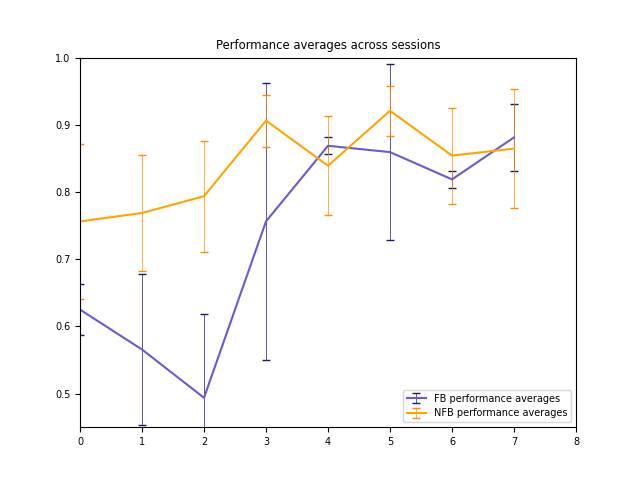
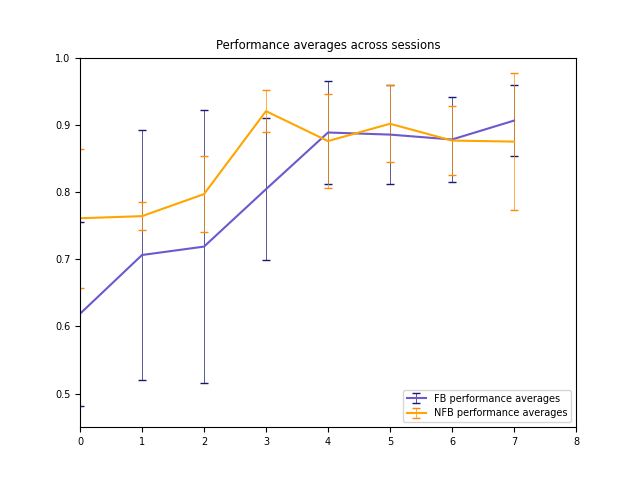
added some stuff

diff --git a/DataProcessing/participantClass.py b/DataProcessing/participantClass.py
@@ -14,6 +14,7 @@ class Participant:
 	_debug = True
 	_misgrasp_adj = 0.125
 	_fail_adj = 0.5
+	_timeout = 6000
 
 	### Methods and functions
 	
@@ -120,8 +121,8 @@ class Participant:
 		self.NL_Grasp_results = self.Grasp_results.loc[ :, self.Grasp_results.columns.str.startswith( 'NL' ) ]
 		self.NL_Grasp_results.columns = self.NL_Grasp_results.columns.str[3:]
   
-		self.COMB_Grasp_results = self.NL_Grasp_results[self.NL_Grasp_results.columns.drop(list(self.NL_Grasp_results.filter(regex='Egg')))] + self.CL_Grasp_results[self.CL_Grasp_results.columns.drop(list(self.CL_Grasp_results.filter(regex='Egg')))] / 2
-		
+		self.COMB_Grasp_results = pd.concat( [ self.NL_Grasp_results[self.NL_Grasp_results.columns.drop(list(self.NL_Grasp_results.filter(regex='Egg')))], self.CL_Grasp_results[self.CL_Grasp_results.columns.drop(list(self.CL_Grasp_results.filter(regex='Egg')))] ] )
+
 		for session in range( int( len( self.COMB_Grasp_results.columns ) / 3 ) ): # Combined performance averages across trial numbers and sessions (averaged between CL and NL cases, irrespective of eggs)
 			_mis_col = session*3
 			_tmp_df =  1 - ( self.COMB_Grasp_results.iloc[ :, _mis_col ] * self._misgrasp_adj + ( ( self.COMB_Grasp_results.iloc[ :, _mis_col + 1 ] + self.COMB_Grasp_results.iloc[:, _mis_col + 2 ] ) * self._fail_adj ) ) 
@@ -133,6 +134,7 @@ class Participant:
 			total_mean_calc = pd.DataFrame( _tmp_df[_col_title].mean(axis=0, skipna=True, numeric_only=True), index=["Mean"], columns=[_col_title] )
 			_tmp_df = pd.concat( [ _tmp_df, total_mean_calc ], axis=0 )
 			self.COMB_grasp_metrics = pd.concat( [ self.COMB_grasp_metrics, _tmp_df ], axis=1 )
+	
   
 		for session in range( int( len( self.CL_Grasp_results.columns ) / 4 ) ): # Extracts and processes grasp results for Cognitive loading condition
 			
@@ -147,6 +149,8 @@ class Participant:
 			total_mean_calc = pd.DataFrame( _tmp_df[_col_title].mean(axis=0, skipna=True, numeric_only=True), index=["Mean"], columns=[_col_title] )
 			light_mean_calc = pd.DataFrame( _tmp_df[_tmp_df.iloc[:,0]=="L"][_col_title].mean(), index=["Mean_L"], columns=[_col_title] )
 			heavy_mean_calc = pd.DataFrame( _tmp_df[_tmp_df.iloc[:,0]=="H"][_col_title].mean(), index=["Mean_H"], columns=[_col_title] )
+			# total_num_crush = pd.DataFrame( )
+			# light_num_crush = 
 			_tmp_df = pd.concat( [ _tmp_df, total_mean_calc, light_mean_calc, heavy_mean_calc ], axis=0 )
 			self.CL_grasp_metrics = pd.concat( [ self.CL_grasp_metrics, _tmp_df ], axis=1 )
 
@@ -169,25 +173,69 @@ class Participant:
 		if self._debug: print( "\tGrasp metrics analysed successfully" )
   
 	def load_trial_times( self ):
+		
+		cols = ['S1','S2','S3','S4','S5','S6','S7','S8']
+		self.CL_contact_forces = pd.DataFrame(index=[1,2,3,4,5,6,7,8,9,10], columns=['S1E','S1','S2E','S2','S3E','S3','S4E','S4','S5E','S5','S6E','S6','S7E','S7','S8E','S8'])
+		self.NL_contact_forces = pd.DataFrame(index=[1,2,3,4,5,6,7,8,9,10], columns=['S1E','S1','S2E','S2','S3E','S3','S4E','S4','S5E','S5','S6E','S6','S7E','S7','S8E','S8'])
+		self.CL_contact_times = pd.DataFrame(index=[1,2,3,4,5,6,7,8,9,10], columns=['S1E','S1','S2E','S2','S3E','S3','S4E','S4','S5E','S5','S6E','S6','S7E','S7','S8E','S8'])
+		self.NL_contact_times = pd.DataFrame(index=[1,2,3,4,5,6,7,8,9,10], columns=['S1E','S1','S2E','S2','S3E','S3','S4E','S4','S5E','S5','S6E','S6','S7E','S7','S8E','S8'])
+		self.CL_times_avg= pd.DataFrame( index=['L','H','COMB'], columns=cols)
+		self.NL_times_avg= pd.DataFrame( index=['L','H','COMB'], columns=cols)
+		
 
 		for session in self.session_result_dirs:
-			session_dir = os.path.join( self.resultsFolder, session )
-
+			session_dir = os.path.join( self.resultsFolder, session )  # Directory path for session (1-8)
+			self.CL_contact_forces.loc['avg', 'S'+str(session)] = 0
+			self.NL_contact_forces.loc['avg', 'S'+str(session)] = 0
 			for condition in os.listdir(session_dir):
+
 				if os.path.isdir( os.path.join( session_dir, condition ) ):
-					session_loading_dir = os.path.join( session_dir, condition )
+        
+					session_loading_dir = os.path.join( session_dir, condition ) # Directory path for session (1-8) condition (CL/NL)
+
 					for trial in os.listdir( session_loading_dir ):
-						if not trial == 'Missed':
-							trial_file = os.path.join( session_loading_dir, trial )
+							
+						if not trial.startswith('Miss'):
+							
+							i = int( trial.split( '-', 1 )[0] ) # Indexing value to make sure trial results end up in the correct location in the DataFrame
+							egg = trial.split( '-', 1 )[1][:1] # Trial Egg value
+							trial_file = os.path.join( session_loading_dir, trial ) # Filepath for session (1-8) condition (CL/NL) trial (1-10) pressure information
+       
 							try:
 								_tmp_df = pd.read_csv( trial_file )
-								print(_tmp_df)
-								_tmp_df = _tmp_df.loc[:,_tmp_df.any()]
-								print(_tmp_df.mean())
+								if condition == 'CL':
+
+									self.CL_contact_forces.loc[i, 'S'+str(session)] = _tmp_df.loc[:,_tmp_df.any()].mean().values
+									self.CL_contact_forces.loc[i, 'S'+str(session)+'E'] = egg
+
+									self.CL_contact_times.loc[i, 'S'+str(session)] = len(self.CL_contact_forces.loc[i, 'S'+str(session)])
+									self.CL_contact_times.loc[i, 'S'+str(session)+'E'] = egg
+          
+								elif condition == 'NL':
+            
+									self.NL_contact_forces.loc[i, 'S'+str(session)] = _tmp_df.loc[:,_tmp_df.any()].mean().values
+									self.NL_contact_forces.loc[i, 'S'+str(session)+'E'] = egg
+
+									self.NL_contact_times.loc[i, 'S'+str(session)] = len(self.NL_contact_forces.loc[i, 'S'+str(session)])
+									self.NL_contact_times.loc[i, 'S'+str(session)+'E'] = egg
+							
 							except:
-								print('Empty grasp file: {}{}{}'.format(self.ID, condition, trial))
+								print('\t\tException raised: Empty grasp file preloop - P{}-S{}-{}-{}'.format(self.ID, session, condition, trial))
+		
+		self.CL_contact_times = self.CL_contact_times.apply( lambda x: [np.NaN if str(y).isnumeric() and y > self._timeout else y for y in x ] ).replace( 0, np.NaN )
+		self.NL_contact_times = self.NL_contact_times.apply( lambda x: [np.NaN if str(y).isnumeric() and y > self._timeout else y for y in x ] ).replace( 0, np.NaN )
 
 
+  
+		for col in cols:
+			egg_iloc = self.CL_contact_times.columns.get_loc(col) - 1
+			self.CL_times_avg.loc['COMB', col] = self.CL_contact_times[col].mean( axis=0)#, numeric_only=True )
+			self.CL_times_avg.loc['L', col] = self.CL_contact_times[self.CL_contact_times.iloc[:,egg_iloc]=='L'][col].mean( axis=0)#, numeric_only=True )
+			self.CL_times_avg.loc['H', col] = self.CL_contact_times[self.CL_contact_times.iloc[:,egg_iloc]=='H'][col].mean( axis=0)#, numeric_only=True )
+
+			self.NL_times_avg.loc['COMB', col] = self.NL_contact_times[col].mean( axis=0)#, numeric_only=True )
+			self.NL_times_avg.loc['L', col] = self.NL_contact_times[self.NL_contact_times.iloc[:,egg_iloc]=='L'][col].mean( axis=0)#, numeric_only=True )
+			self.NL_times_avg.loc['H', col] = self.NL_contact_times[self.NL_contact_times.iloc[:,egg_iloc]=='H'][col].mean( axis=0)#, numeric_only=True )
 
 	def plot_performance( self ):
 		""""""
@@ -198,7 +246,27 @@ class Participant:
 			ax.set(xlim=(1, 8), xticks=np.arange(1, 8), ylim=(0, 1))
 			plt.show()
 
+	def combine_performance_and_time( self ):
+		
+		if not self.ID.endswith('OPP'):
+			col_rename = {"Performance1":"S1",  "Performance2":"S2",   "Performance3":"S3",   "Performance4":"S4",   "Performance5":"S5",   "Performance6":"S6",   "Performance7":"S7",   "Performance8":"S8"}
 
+			self.CL_timing_metrics = self.CL_contact_times[self.CL_contact_times.columns.drop(list(self.CL_contact_times.filter(regex='E')))]
+			self.CL_timing_metrics = 1 - self.CL_timing_metrics.apply( lambda x: [(y-1)/(1500-100)  for y in x ] )
+			self.CL_timing_metrics = self.CL_timing_metrics.apply( lambda x: [0 if y < 0 else y for y in x])
+
+	
+			self.NL_timing_metrics = 1 - self.NL_contact_times[self.NL_contact_times.columns.drop(list(self.NL_contact_times.filter(regex='E')))].div(1000)
+			self.NL_timing_metrics = self.NL_timing_metrics.apply( lambda x: [(y-1)/(1500-100) for y in x ] )
+			self.NL_timing_metrics = self.NL_timing_metrics.apply( lambda x: [0 if y < 0 else y for y in x] )
+
+			self.CL_combined_performance = self.CL_timing_metrics * self.CL_grasp_metrics[self.CL_grasp_metrics.columns.drop(list(self.CL_grasp_metrics.filter(regex='Egg')))].rename(columns=col_rename)
+				
+			self.CL_combined_performance.drop([ 'Mean_H', 'Mean_L' ], inplace=True )
+			self.CL_combined_performance.loc['Mean'] = self.CL_combined_performance.mean()
+			self.CL_combined_performance.loc['STD'] = self.CL_combined_performance.iloc[0:9,:].std()
+			print(self.CL_combined_performance.iloc[0:10,:])
+			print(self.CL_combined_performance)
 
 
 
@@ -349,11 +417,11 @@ def calculate_all_qualitative_means( participant_list ):
 	return 	Qresults_CL_FB,	Qresults_CL_FB_avg, Qresults_NL_FB, Qresults_NL_FB_avg,	Qresults_CL_NFB, Qresults_CL_NFB_avg, Qresults_NL_NFB, Qresults_NL_NFB_avg
 
 def plot_overall_performance_means( show = False, save = False ):
-	plt.errorbar( range( len( FB_NL_means.index ) ), ( FB_NL_means["Mean"] + FB_CL_means["Mean"] )/2, yerr= FB_NL_means.std( axis=1 ).values, fmt='slateblue', label='FB performance averages', ecolor='midnightblue', elinewidth=.5, capsize=3 )
+	plt.errorbar( range( len( FB_COMB_means.index ) ), FB_COMB_means["Mean"], yerr= FB_COMB_means.std( axis=1 ).values, fmt='slateblue', label='FB performance averages', ecolor='midnightblue', elinewidth=.5, capsize=3 )
 	# plt.errorbar( range( len( FB_NL_means.index ) ), FB_NL_means["Mean"], yerr= FB_NL_means.std( axis=1 ).values, fmt='slateblue', label='FB No loading performance averages', ecolor='midnightblue', elinewidth=.5, capsize=3 )
 	# plt.errorbar( range( len( FB_CL_means.index ) ), FB_CL_means["Mean"], yerr= FB_CL_means.std( axis=1 ).values, fmt='violet', linestyle='--', linewidth=.5, label='FB No loading performance averages', ecolor='purple', elinewidth=.25, capsize=1 )
 	# plt.errorbar( range( len( FB_COMB_means.index ) ), ( FB_COMB_means["Mean"] ), yerr= FB_COMB_means.std( axis=1 ).values, fmt='green', label='FB COMB performance averages', ecolor='midnightblue', elinewidth=.5, capsize=3 )
-	plt.errorbar( range( len( NFB_NL_means.index ) ), ( NFB_NL_means["Mean"] + NFB_CL_means["Mean"] )/2, yerr= NFB_NL_means.std( axis=1 ).values, fmt='orange', label='NFB performance averages',  ecolor='darkorange', elinewidth=.5, capsize=3 )
+	plt.errorbar( range( len( NFB_COMB_means.index ) ), NFB_COMB_means["Mean"], yerr= NFB_COMB_means.std( axis=1 ).values, fmt='orange', label='NFB performance averages',  ecolor='darkorange', elinewidth=.5, capsize=3 )
 	# plt.errorbar( range( len( NFB_NL_means.index ) ), NFB_NL_means["Mean"], yerr= NFB_NL_means.std( axis=1 ).values, fmt='orange', label='NFB No loading performance averages',  ecolor='darkorange', elinewidth=.5, capsize=3 )
 	# plt.errorbar( range( len( NFB_CL_means.index ) ), NFB_CL_means["Mean"], yerr= NFB_CL_means.std( axis=1 ).values, fmt='orangered', linestyle='--', linewidth=.5, label='NFB No loading performance averages',  ecolor='darkred', elinewidth=.25, capsize=1 )
 	# plt.errorbar( range( len( NFB_COMB_means.index ) ), ( NFB_COMB_means["Mean"] ), yerr= NFB_COMB_means.std( axis=1 ).values, fmt='pink', label='NFB COMB performance averages',  ecolor='darkorange', elinewidth=.5, capsize=3 )
@@ -363,6 +431,10 @@ def plot_overall_performance_means( show = False, save = False ):
 	plt.title('Performance averages across sessions')
 	if save: plt.savefig( os.path.join( os.getcwd(), os.path.join("Output_figs", "Performance" ) ) )
 	if show: plt.show()
+ 
+
+	plt.clf()
+	plt.close()
 
 def plot_TLX_scores( condition, show = False, save = False ):
 	fig, ( ( ax1, ax2, ax3 ), ( ax4, ax5, ax6 ) ) = plt.subplots( 2, 3 )
@@ -415,21 +487,24 @@ def plot_TLX_scores( condition, show = False, save = False ):
 	plt.legend( loc='upper right' )
 	if save: plt.savefig( os.path.join( os.getcwd(), os.path.join("Output_figs", "Combined {} TLX".format(condition) ) ) )
 	if show: plt.show()
+ 
+	plt.clf()
+	plt.close()
 
 def plot_qual_scores( condition, show = False, save = False ):
 	fig, ( ( ax1, ax2, ax3 ), ( ax4, ax5, ax6 ), ( ax7, ax8, ax9 ) ) = plt.subplots( 3, 3 )
  
 	if condition == 'CL':
-		fig.suptitle('Comparison of Likert scores under cognitive load')
+		fig.suptitle('Comparison of Likert scores under high cognitive load')
 		qual_results_FB = Qresults_CL_FB_avg
 		qual_results_NFB = Qresults_CL_NFB_avg
-		app = 'under cognitive loading'
+		app = 'under high cognitive load'
   
 	elif condition == 'NL':
-		fig.suptitle('Comparison of Likert scores without cognitive load')
+		fig.suptitle('Comparison of Likert scores under low cognitive load')
 		qual_results_FB = Qresults_NL_FB_avg
 		qual_results_NFB = Qresults_NL_NFB_avg
-		app = 'without cognitive loading'
+		app = 'under low cognitive load'
   
 	else:
 		print('No valid condition set, defaulting to without loading.')
@@ -460,16 +535,123 @@ def plot_qual_scores( condition, show = False, save = False ):
 	fig.set_size_inches(20,12)
 	if save: plt.savefig( os.path.join( os.getcwd(), os.path.join("Output_figs", "{} Qualitative".format(condition) ) ) )
 	if show: plt.show()
+   
+def plot_ADL_scores( participant_list, show = False, save = False ):
 	
-	# fig, ax = plt.subplots()
-	# ax.plot( qual_results_FB.index.values, _qual_FB['Totals'].values , label='FB' )
-	# ax.plot( qual_results_NFB.index.values, _qual_NFB['Totals'].values, label='NFB' )
-	# ax.set_title('Combined Likert scores {}'.format(app))
-	# plt.legend( loc='upper right' )
-	# if save: plt.savefig( os.path.join( os.getcwd(), "Combined {} Qualitative".format(condition) ) )
-	# if show: plt.show()
+	FB_ADL = pd.DataFrame()
+	NFB_ADL = pd.DataFrame()
+	ADL_FB_averages = pd.DataFrame( index=['Cups','Pegs','Pens'], columns=[ 'S1', 'S4', 'S8' ])
+	ADL_NFB_averages = pd.DataFrame( index=['Cups','Pegs','Pens'], columns=[ 'S1', 'S4', 'S8' ])
+	
+	for participant in participant_list:
+		if participant is not None and participant.ID in condition_mask:
+			FB_ADL = FB_ADL.join( participant.ADL_ratios, how='outer', rsuffix=( "-" + str(participant.ID) ) )
+		elif participant is not None and participant.ID not in condition_mask:
+			NFB_ADL = NFB_ADL.join( participant.ADL_ratios, how='outer', rsuffix=( '-' + str(participant.ID ) ) )
    
+	for session in ADL_NFB_averages.columns:
+		ADL_FB_averages[session] = FB_ADL.loc[:,FB_ADL.columns.str.startswith(session)].mean(axis=1)
+		ADL_NFB_averages[session] = NFB_ADL.loc[:,NFB_ADL.columns.str.startswith(session)].mean(axis=1)
+
+	fig, (( ax1, ax4), (ax2, ax5), (ax3,ax6) ) = plt.subplots(3,2,sharex=True, sharey=True)
+
+	axes = [ ax1, ax2, ax3, ax4, ax5, ax6]	
+	
+	for axis in axes:
+	# for test in ADL_NFB_averages.index:
+		NFB_flag = False
+		test_loc = axes.index(axis)
+		if test_loc > 2:
+			NFB_flag = True
+			test_loc -=3
+		test = ADL_FB_averages.index[test_loc]
+		
+		if NFB_flag: 
+			axis.boxplot( [ FB_ADL.loc[test, FB_ADL.columns.str.startswith('S1')].dropna(), FB_ADL.loc[test, FB_ADL.columns.str.startswith('S4')].dropna(), FB_ADL.loc[test, FB_ADL.columns.str.startswith('S8')].dropna() ], widths=.6 )
+			axis.set_title(str(test) + ' FB')
+			FB_fit = np.polyfit([1,2,3],[FB_ADL.loc[test, FB_ADL.columns.str.startswith('S1')].dropna().mean(), FB_ADL.loc[test, FB_ADL.columns.str.startswith('S4')].dropna().mean(), FB_ADL.loc[test, FB_ADL.columns.str.startswith('S8')].dropna().mean()], 2)
+			FB_fit_func = np.poly1d(FB_fit)
+			axis.plot(np.arange(1,3,0.1),FB_fit_func(np.arange(1,3,0.1)))
+		else: 
+			axis.boxplot( [ NFB_ADL.loc[test, NFB_ADL.columns.str.startswith('S1')].dropna(), NFB_ADL.loc[test, NFB_ADL.columns.str.startswith('S4')].dropna(), NFB_ADL.loc[test, NFB_ADL.columns.str.startswith('S8')].dropna() ], widths=.6 )#, FB_ADL.loc[test,FB_ADL.columns.str.startswith('S4')].values, FB_ADL.loc[test,FB_ADL.columns.str.startswith('S8')].values ]   )
+			axis.set_title(str(test) + ' NFB')
+			NFB_fit = np.polyfit([1,2,3],[NFB_ADL.loc[test, NFB_ADL.columns.str.startswith('S1')].dropna().mean(), NFB_ADL.loc[test, NFB_ADL.columns.str.startswith('S4')].dropna().mean(), NFB_ADL.loc[test, NFB_ADL.columns.str.startswith('S8')].dropna().mean()], 2)
+			NFB_fit_func = np.poly1d(NFB_fit)
+			axis.plot(np.arange(1,3,0.1),NFB_fit_func(np.arange(1,3,0.1)))
    
+		axis.set_yticks( np.arange(0,12,1), minor=True )
+		axis.grid()
+   
+
+	
+	# fig.legend()
+	fig.set_size_inches(10,8)
+	fig.suptitle('Comparison of ADL metrics between conditions')
+	if save: plt.savefig( os.path.join( os.getcwd(), os.path.join("Output_figs", "ADL metric scores" ) ) )
+	if show: plt.show()
+ 
+	plt.clf()
+	plt.close()
+		
+def plot_times( participant_list, save=False, show = False ):
+	
+	i = 0
+	j = 0
+	
+	FB_CL_collated_times = pd.DataFrame(index=['L','H','COMB'], columns=['S1','S2','S3','S4','S5','S6','S7','S8']).fillna(0)
+	FB_NL_collated_times = pd.DataFrame(index=['L','H','COMB'], columns=['S1','S2','S3','S4','S5','S6','S7','S8']).fillna(0)
+	NFB_CL_collated_times = pd.DataFrame(index=['L','H','COMB'], columns=['S1','S2','S3','S4','S5','S6','S7','S8']).fillna(0)
+	NFB_NL_collated_times = pd.DataFrame(index=['L','H','COMB'], columns=['S1','S2','S3','S4','S5','S6','S7','S8']).fillna(0)
+
+	for participant in participant_list:
+		if participant is not None and not participant.ID.endswith('OPP'):
+			if participant.ID in condition_mask:
+				i += 1
+				FB_CL_collated_times += participant.CL_times_avg.fillna(0)
+				FB_NL_collated_times += participant.NL_times_avg.fillna(0)
+
+			else:
+				j += 1
+				NFB_CL_collated_times += participant.CL_times_avg.fillna(0)
+				NFB_NL_collated_times += participant.NL_times_avg.fillna(0)
+     
+	FB_CL_collated_times = FB_CL_collated_times.div(i*100)
+	FB_NL_collated_times = FB_NL_collated_times.div(i*100)
+	NFB_CL_collated_times = NFB_CL_collated_times.div(j*100)
+	NFB_NL_collated_times = NFB_NL_collated_times.div(j*100)
+ 
+	fig, ( ( ax1, ax2, ax3) , ( ax4, ax5, ax6 ) ) = plt.subplots(2,3)
+	axes = [ax1, ax2, ax3, ax4, ax5, ax6 ]
+	cond = ['L','H','COMB']	
+ 
+	for axis in axes:
+		loc = axes.index(axis)
+		axis.set_ylim([0,20])
+		axis.grid()
+		if loc > 2:
+			loc = loc-3
+			axis.plot( FB_CL_collated_times.columns.values, FB_CL_collated_times.iloc[loc,:].values , label='FB' )
+			axis.plot( NFB_CL_collated_times.columns.values, NFB_CL_collated_times.iloc[loc,:].values , label='NFB' )
+			axis.set_title('CL '+ str(FB_CL_collated_times.index[loc]))
+
+		else:
+			axis.plot( FB_NL_collated_times.columns.values, FB_NL_collated_times.iloc[loc,:].values , label='FB' )
+			axis.plot( NFB_NL_collated_times.columns.values, NFB_NL_collated_times.iloc[loc,:].values , label='NFB' )
+			axis.set_title('NL '+ str(FB_NL_collated_times.index[loc]))
+
+		axis.legend(loc='upper right')
+
+	fig.suptitle('Average time in contact with egg')
+	fig.set_size_inches(10,6)
+	if save: plt.savefig( os.path.join( os.getcwd(), os.path.join("Output_figs", "Grasp time" ) ) )
+	if show: plt.show()
+
+	plt.clf()
+	plt.close()
+ 
+	return FB_CL_collated_times, FB_NL_collated_times, NFB_CL_collated_times, NFB_NL_collated_times
+
+
 if __name__ == "__main__":
 
 	results_dir = os.path.join(os.getcwd(), "results_rnd2") # Define path to results folder
@@ -477,7 +659,7 @@ if __name__ == "__main__":
 	Participants = [None]*len(participant_folders) # Initialise an empty list of length x, where x is the number of participant directories
 
  
-	for participant in range(len(participant_folders)): # Creates a Participant object for each results folder and stores them in a list
+	for participant in range(len(participant_folders) ): # Creates a Participant object for each results folder and stores them in a list
 
 		if os.path.isdir(os.path.join( results_dir, participant_folders[participant] )): # Checks all paths to make sure they are a directory
 
@@ -489,20 +671,27 @@ if __name__ == "__main__":
 			_self.load_trial_times()
 			_self.process_ADL_results()
 			_self.process_grasp_results()
+			_self.combine_performance_and_time()
+   
 			# _self.plot_performance()
 			
 	print("\n\nDone loading\n\n")
 	
 	NL_means, NL_means_L, NL_means_H, CL_means, CL_means_L, CL_means_H, FB_NL_means, FB_NL_means_L, FB_NL_means_H, FB_CL_means, FB_CL_means_L, FB_CL_means_H, NFB_NL_means, NFB_NL_means_L, NFB_NL_means_H, NFB_CL_means, NFB_CL_means_L, NFB_CL_means_H, FB_COMB_means, NFB_COMB_means = calculate_all_performance_means( Participants )
 	
-	Qresults_CL_FB,	Qresults_CL_FB_avg, Qresults_NL_FB, Qresults_NL_FB_avg,	Qresults_CL_NFB, Qresults_CL_NFB_avg, Qresults_NL_NFB, Qresults_NL_NFB_avg = calculate_all_qualitative_means( Participants )
+	Qresults_CL_FB, Qresults_CL_FB_avg, Qresults_NL_FB, Qresults_NL_FB_avg,	Qresults_CL_NFB, Qresults_CL_NFB_avg, Qresults_NL_NFB, Qresults_NL_NFB_avg = calculate_all_qualitative_means( Participants )
 
-	# plt.rcParams.update({'font.size':7})
-
+	FB_CL_collated_times, FB_NL_collated_times, NFB_CL_collated_times, NFB_NL_collated_times = plot_times( Participants, save = True )
+ 
+	plt.rcParams.update({'font.size':7})
 	# plot_overall_performance_means( save = True )
 	# plot_TLX_scores( 'CL', save = True )
 	# plot_TLX_scores( 'NL', save = True )
 	# plot_qual_scores( 'CL', save = True )
 	# plot_qual_scores( 'NL', save = True )
+	# plot_ADL_scores( Participants, save = True )
+	
+ 
+	
 	
 
